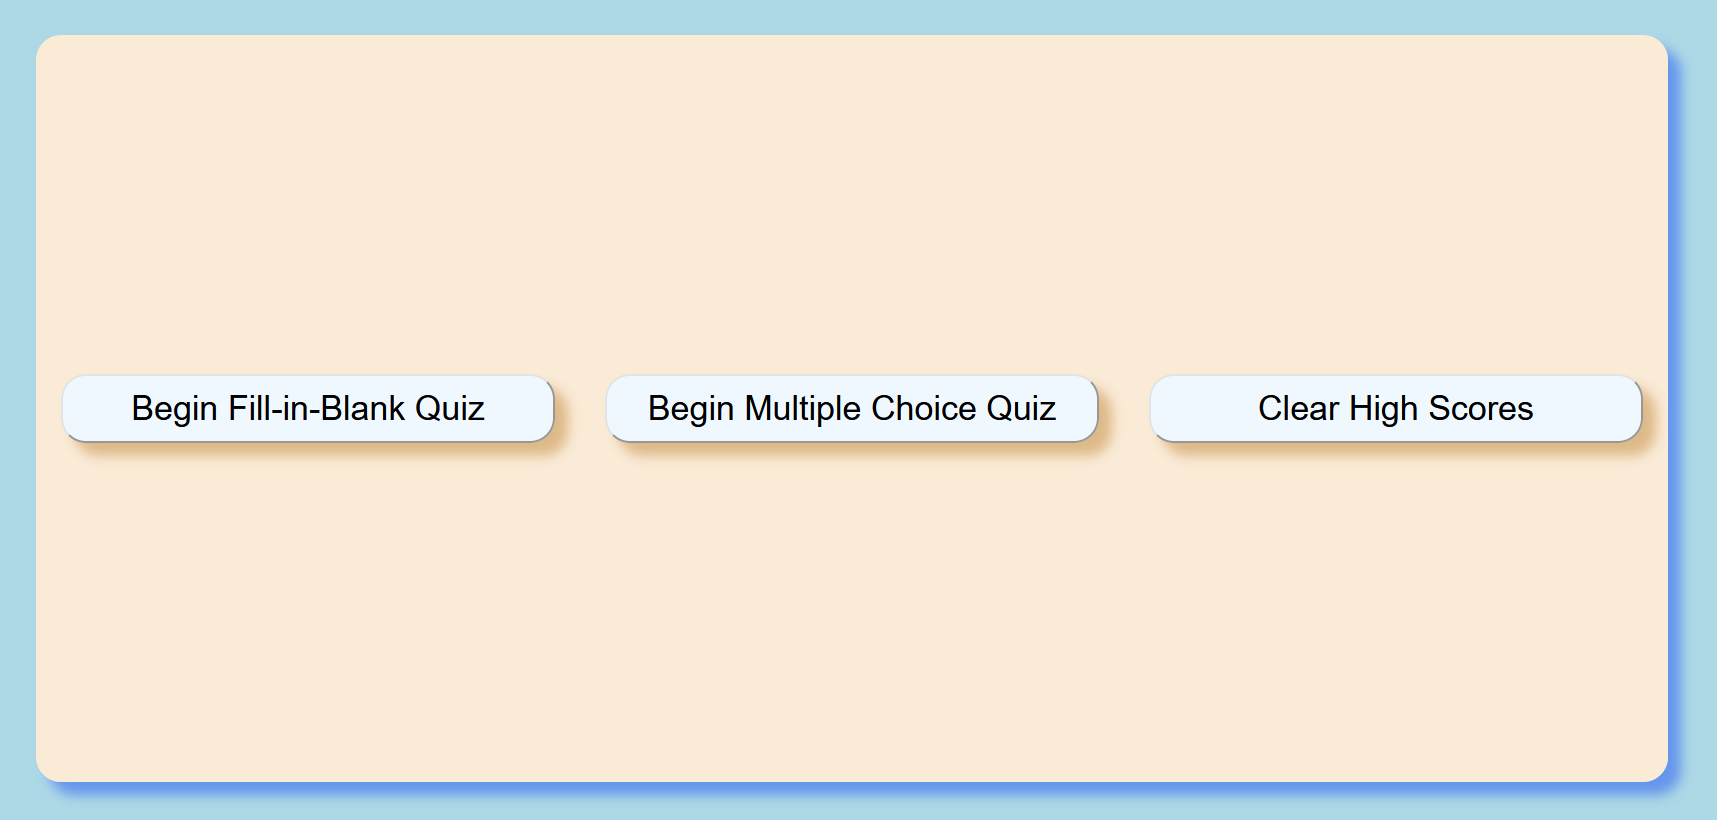
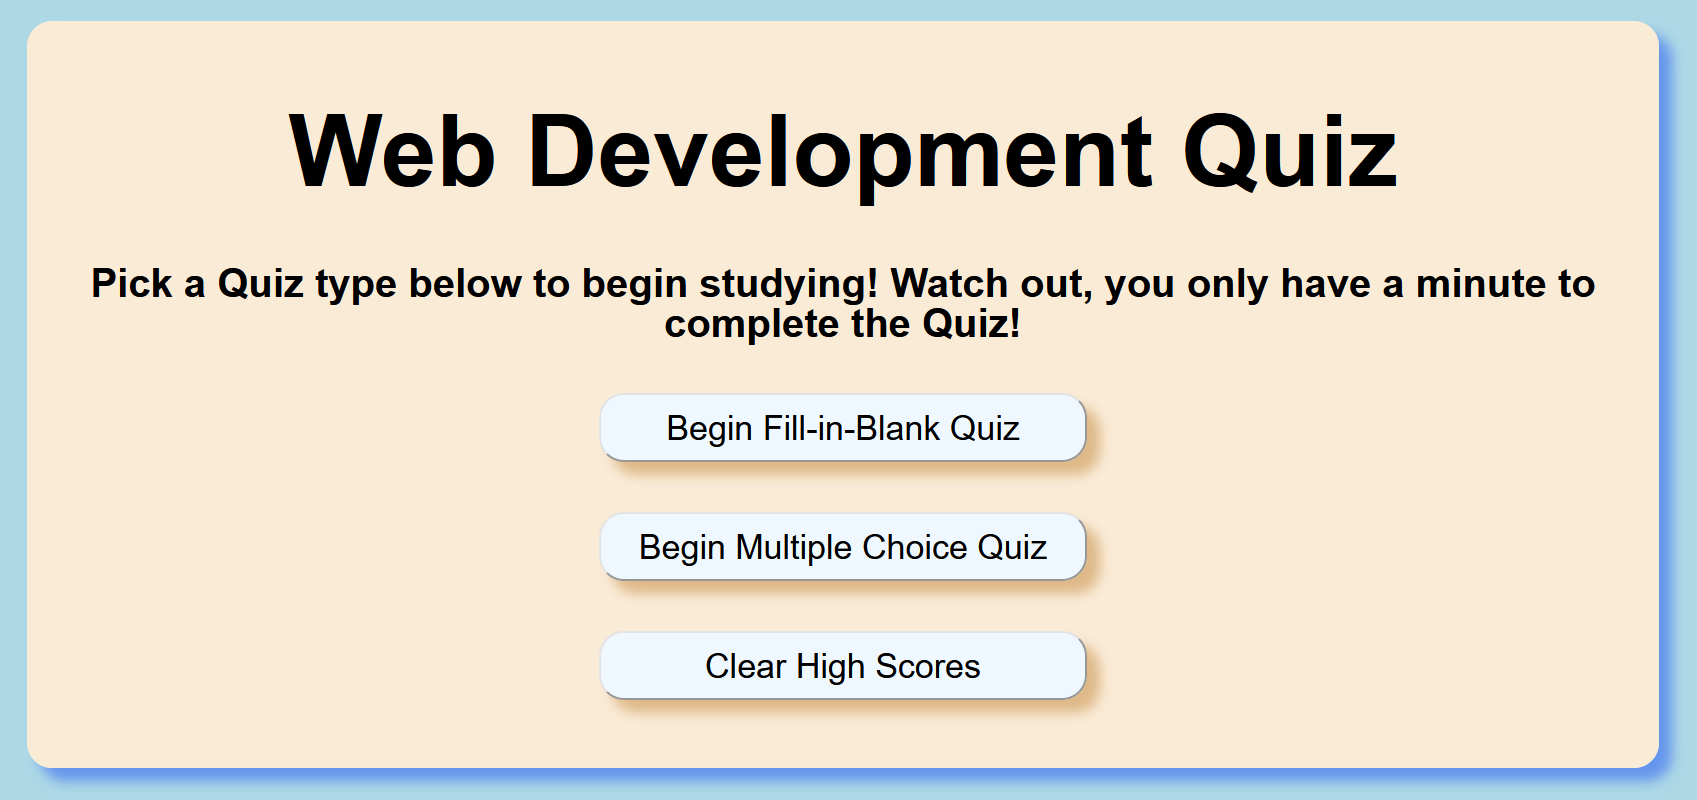
This should be the final version

Changed region(s): [[0.0, 0.0, 0.9994, 1.0], [0.1562, 0.125, 0.8433, 0.25], [0.3435, 0.7812, 0.6559, 0.9062]]

diff --git a/assets/js/script.js b/assets/js/script.js
@@ -55,20 +55,30 @@ function create_scoretable(){
 
 function landing_page(){
 
+    var title = document.createElement("h1");
+    var subtitle = document.createElement("h2");
     var start_box = document.createElement("div");
+    var button_box = document.createElement("div");
     var start_button_fillin = document.createElement("button");
     var start_button_multi = document.createElement("button");
     var clear_button = document.createElement("button");
     var game_type = "";
 
     function stylize() {
+
         frame.appendChild(start_box);
-        start_box.appendChild(start_button_fillin);
-        start_box.appendChild(start_button_multi);
-        start_box.appendChild(clear_button);
+        start_box.appendChild(title);
+        start_box.appendChild(subtitle);
+        start_box.appendChild(button_box);
+        button_box.appendChild(start_button_fillin);
+        button_box.appendChild(start_button_multi);
+        button_box.appendChild(clear_button);
     
+        title.setAttribute("id","title");
+        title.textContent = "Web Development Quiz"
+        subtitle.setAttribute("id","subtitle")
+        subtitle.textContent = "Pick a Quiz type below to begin studying! Watch out, you only have a minute to complete the Quiz!"
         start_box.setAttribute("id","start_box");
-    
         start_button_fillin.setAttribute("id","start_button");
         start_button_fillin.textContent = "Begin Fill-in-Blank Quiz";
         start_button_multi.setAttribute("id","start_button");
@@ -78,10 +88,13 @@ function landing_page(){
 
         
         frame.setAttribute("style", "display:flex; flex-direction:column; align-items:center; width:100%; justify-content:center; background-color:lightblue; ");
-        start_box.setAttribute("style", card_style+" "+row_style);
+        start_box.setAttribute("style", card_style+ " " + col_style);
+        title.setAttribute("style", "font-size:5em; margin:30px;")
+        subtitle.setAttribute("style", "font-size:2em; margin:20px; text-align:center")
+        button_box.setAttribute("style", col_style);
         console.log( card_style+" "+row_style);
-        for (i = 0; i < start_box.children.length; i++){
-            start_box.children[i].setAttribute("style", button_style);
+        for (i = 0; i < button_box.children.length; i++){
+            button_box.children[i].setAttribute("style", button_style);
         };
     };
 
@@ -382,6 +395,7 @@ function game_over(correct,miss){
     var score = document.createElement("div");
     var submission = document.createElement("div");
     var prompt_button = document.createElement("button");
+    var esc_button = document.createElement("button");
     var initials_box = document.createElement("textarea");
     var initials = '';
     var big_score = [];
@@ -409,7 +423,7 @@ function game_over(correct,miss){
         };
     
 
-        prompt_button.textContent ="Save"
+        prompt_button.textContent ="Save";
         scoreboard.appendChild(initials_box);
         initials_box.setAttribute("style", "margin:50px; width:30%; font-size:1.5em; text-align:center; display:flex; justify-content:center");
         initials_box.setAttribute("placeholder", "Please Type your Initials Here")
@@ -424,11 +438,12 @@ function game_over(correct,miss){
         scorebox.appendChild(score);
         scorebox.appendChild(submission);
         submission.appendChild(prompt_button);
-    
-        
+        submission.appendChild(esc_button);
+
         prompt_button.textContent = "Would You like to Save your Score?";
-        prompt_button.setAttribute("style", button_style.replace("margin: 20px",""));
-    
+        prompt_button.setAttribute("style", button_style.replace("margin: 20px","margin: 10px auto"));
+        esc_button.textContent ="Start Over";
+        esc_button.setAttribute("style", button_style.replace("margin: 20px","margin: 10px auto"));
     
         scoreboard.setAttribute("id","scoreboard");
         scorebox.setAttribute("id","scorebox");
@@ -450,6 +465,7 @@ function game_over(correct,miss){
     console.log("Game Over");
     stylize();
     prompt_button.addEventListener("click",begin_save);
+    esc_button.addEventListener("click",landing_page);
     
 
   
